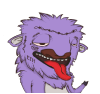
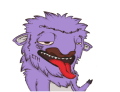
fix(ui): fix image blur on resize

Changed region(s): [[0.06, 0.1087, 0.9, 1.0]]

diff --git a/packages/ui/src/components/BufficornImage.vue b/packages/ui/src/components/BufficornImage.vue
@@ -6,7 +6,7 @@
     <img
       class="bufficorn-image"
       :class="{ flip }"
-      :src="importPng('Bufficorn-2')"
+      :src="importPng('Bufficorn-0')"
       alt="icon"
     />
   </div>
@@ -38,10 +38,10 @@ export default {
   text-align: center;
 }
 .bufficorn-image {
-  object-fit: contain; 
-  width: auto; 
-  height: auto; 
-  max-width: 100%; 
+  object-fit: contain;
+  width: auto;
+  height: auto;
+  max-width: 100%;
   max-height: 100%;
   grid-column: 1;
   &.flip {

diff --git a/packages/api/test/src/routes/trade.spec.ts b/packages/api/test/src/routes/trade.spec.ts
@@ -651,7 +651,7 @@ describe('Route /trade', () => {
 
   describe('GET', () => {
     jest.setTimeout(15000)
-    
+
     it('should return correct values when no trade exists', async () => {
       const token = await authenticatePlayer(initialPlayers[0].key)
 
